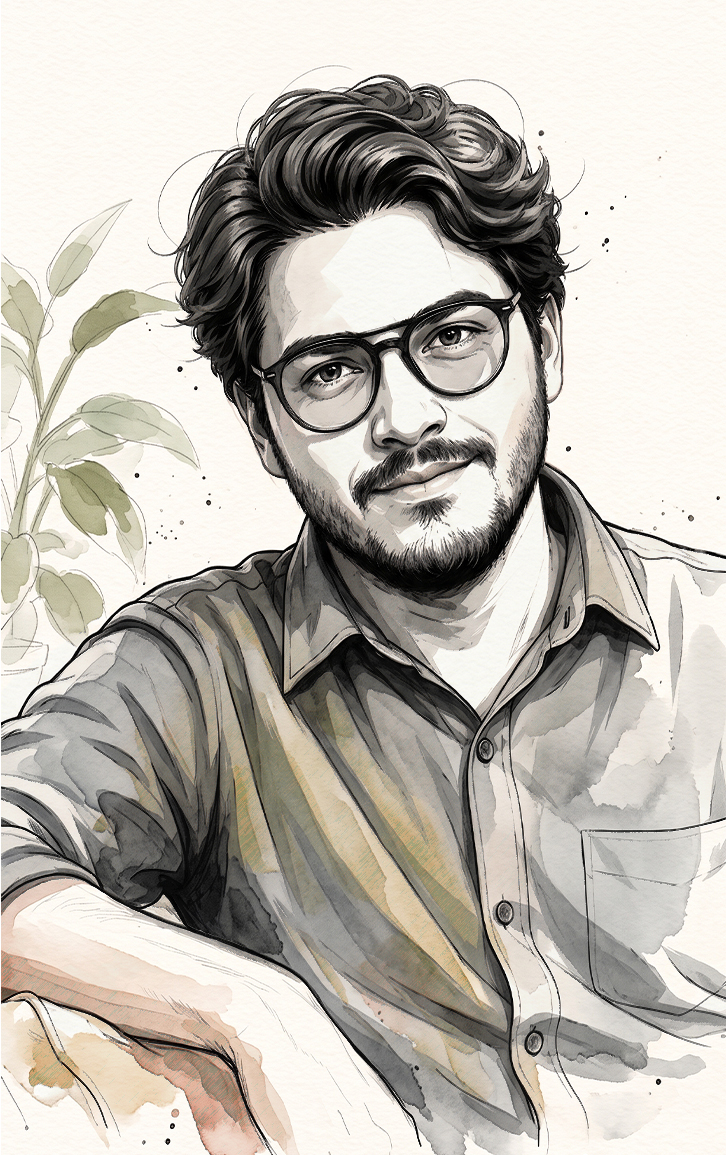
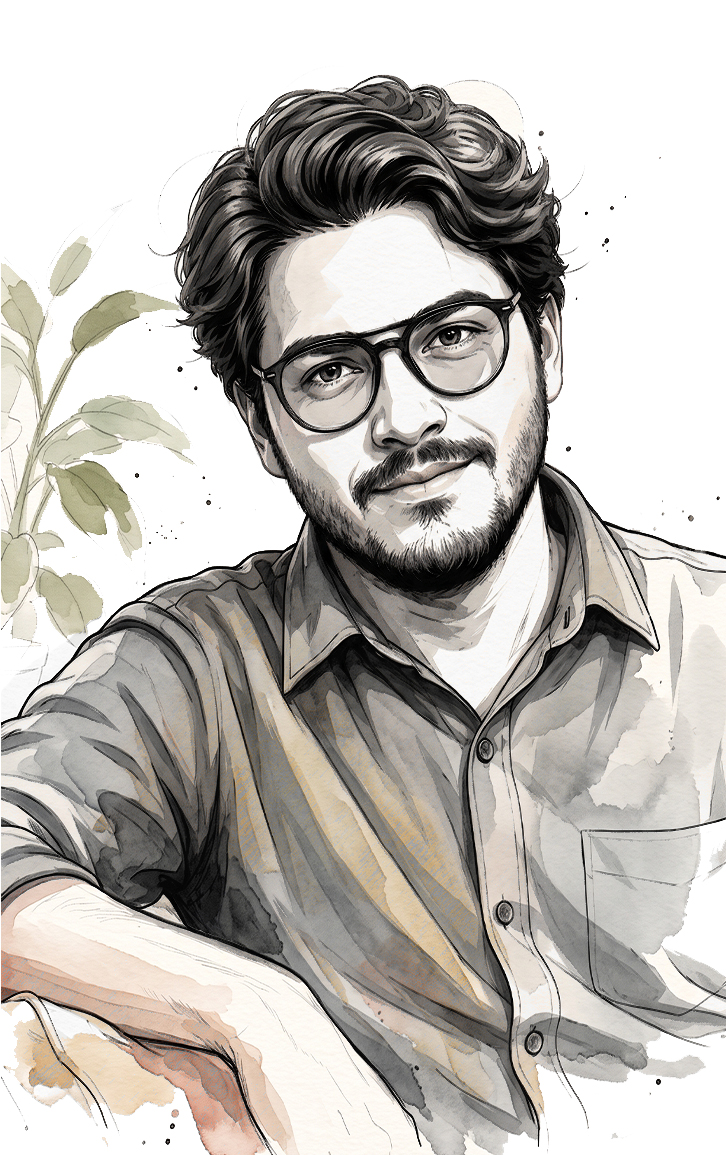
Use new dave-portrait-color.jpg and preserve original image background rendering

diff --git a/index.html b/index.html
@@ -137,7 +137,7 @@
   <footer class="system-footer">
     <div class="footer-inner">
       <div class="footer-left">
-        <span class="footer-text">Update: <span id="lastUpdateTime">25-Aug-26; 00:22:56</span>
+        <span class="footer-text">Update: <span id="lastUpdateTime">25-Aug-26; 00:25:59</span>
       </div>
       <div class="footer-right">
         <span class="footer-text">&copy; Dave Masorn 2026</span>

diff --git a/style.css b/style.css
@@ -286,7 +286,6 @@ body {
   user-select: none;
   -webkit-user-drag: none;
   pointer-events: none;
-  mix-blend-mode: multiply;
 }
 
 .portrait-sketch {
